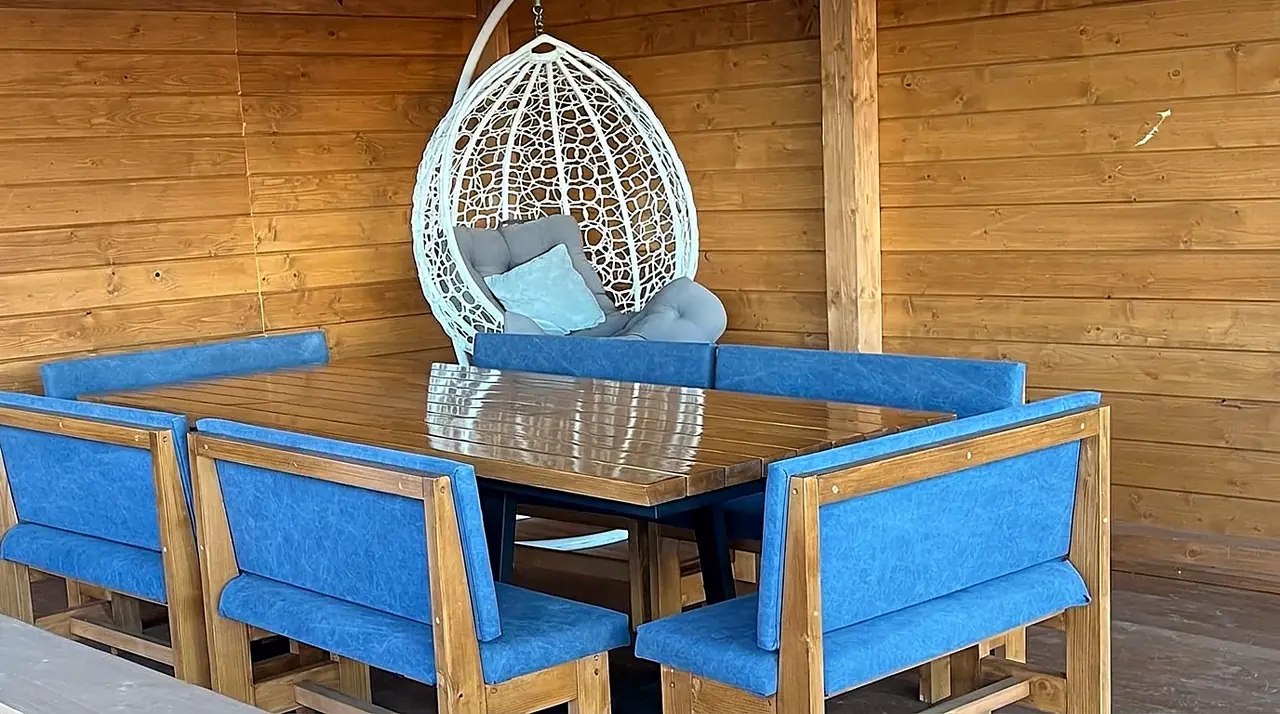
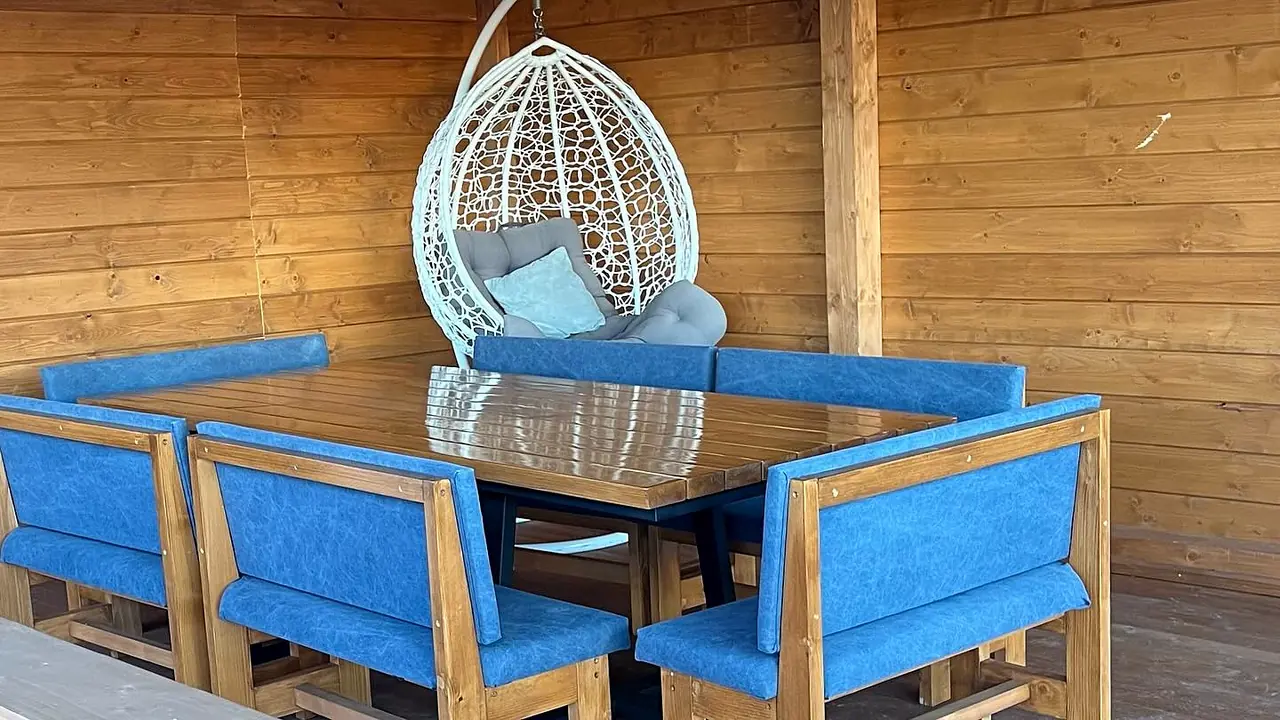
Hero and photos: only real property photos, gentle light correction

diff --git a/index.html b/index.html
@@ -24,8 +24,8 @@
 <link rel="preconnect" href="https://fonts.googleapis.com">
 <link rel="preconnect" href="https://fonts.gstatic.com" crossorigin>
 <link href="https://fonts.googleapis.com/css2?family=Jost:wght@300;400;500;600&family=Roboto:wght@300;400;500;700&display=swap" rel="stylesheet">
-<link rel="preload" as="image" href="img/hero-summer.webp" media="(min-width: 761px)" fetchpriority="high">
-<link rel="preload" as="image" href="img/hero-summer-m.webp" media="(max-width: 760px)" fetchpriority="high">
+<link rel="preload" as="image" href="img/hero-s1.webp" media="(min-width: 761px)" fetchpriority="high">
+<link rel="preload" as="image" href="img/hero-s1-m.webp" media="(max-width: 760px)" fetchpriority="high">
 <script>document.documentElement.classList.add('js');</script>
 <script type="application/ld+json">{"@context": "https://schema.org", "@type": "LodgingBusiness", "@id": "https://ananinalist-maker.github.io/proto-bayka-karpat/#bayka", "name": "Байка Карпат", "alternateName": ["Байка Карпат Ворохта", "Відпочинковий комплекс «Байка Карпат»"], "description": "Апартаменти й новий котедж на пагорбі над Ворохтою: кухні, басейн з підігрівом тільки для гостей, чан, сауна, тераса з видом на Говерлу. Бронювання напряму в господині.", "url": "https://ananinalist-maker.github.io/proto-bayka-karpat/", "telephone": "+380964751576", "sameAs": ["https://www.instagram.com/bayka_karpat_vorokhta", "https://www.tiktok.com/@baykakarpat"], "image": ["https://ananinalist-maker.github.io/proto-bayka-karpat/img/og.jpg", "https://ananinalist-maker.github.io/proto-bayka-karpat/img/ig-house-pool.webp", "https://ananinalist-maker.github.io/proto-bayka-karpat/img/cottage-log.webp", "https://ananinalist-maker.github.io/proto-bayka-karpat/img/pool-dusk.webp"], "address": {"@type": "PostalAddress", "streetAddress": "вулиця Михайла Грушевського, 88", "addressLocality": "Ворохта", "addressRegion": "Івано-Франківська область", "postalCode": "78595", "addressCountry": "UA"}, "geo": {"@type": "GeoCoordinates", "latitude": 48.2880136, "longitude": 24.5693873}, "hasMap": "https://www.google.com/maps/place/?q=place_id:ChIJ1SQV5WzhNkcR0ZgD4YV8-o4", "availableLanguage": ["uk"], "petsAllowed": true, "amenityFeature": [{"@type": "LocationFeatureSpecification", "name": "Басейн з підігрівом тільки для гостей", "value": true}, {"@type": "LocationFeatureSpecification", "name": "Чан", "value": true}, {"@type": "LocationFeatureSpecification", "name": "Сауна", "value": true}, {"@type": "LocationFeatureSpecification", "name": "Кухня в кожному житлі", "value": true}, {"@type": "LocationFeatureSpecification", "name": "Мангал і альтанка", "value": true}, {"@type": "LocationFeatureSpecification", "name": "Тераса з гамаками", "value": true}, {"@type": "LocationFeatureSpecification", "name": "Трансфер з вокзалу за домовленістю", "value": true}], "containsPlace": [{"@type": "Accommodation", "name": "Апартаменти на першому поверсі", "description": "Три окремі спальні, у кожній двоспальне ліжко. Своя кухня, щоб готувати як удома, і окрема ванна кімната."}, {"@type": "Accommodation", "name": "Апартаменти на другому поверсі", "description": "Чотири спальні, два санвузли, кухня і велика вітальня з панорамним вікном на гори. Окремий вхід і балкон з гойдалкою."}, {"@type": "Accommodation", "name": "Новий котедж 2024 року", "description": "Котедж із колоди, збудований у 2024 році. Три окремі спальні, кожна зі своїм санвузлом, повноцінна кухня і зал для відпочинку."}]}</script>
 <style>
@@ -716,10 +716,12 @@ textarea.inp{height:auto;min-height:92px;padding:13px 14px;line-height:1.45;resi
 .top{margin-inline:calc(50% - 50vw)}
 .hero{inset:0!important}
 .hero h1 .nw{white-space:nowrap}
-@media (max-width:760px){.hero h1 .nw{display:block}.hero h1 .l2{padding-left:0}.cover .wordmark{white-space:normal;flex-direction:column;font-size:clamp(40px,14vw,64px);line-height:1.05;letter-spacing:.08em}.cover .wordmark .nw{display:block;white-space:nowrap}}
+.hero h1 .nw{display:block}
+@media (max-width:760px){.hero h1 .l2{padding-left:0}.cover .wordmark{white-space:normal;flex-direction:column;font-size:clamp(40px,14vw,64px);line-height:1.05;letter-spacing:.08em}.cover .wordmark .nw{display:block;white-space:nowrap}}
 .hero__media{animation:none!important}
 .hero__scrim{background:linear-gradient(90deg,rgba(0,7,5,.8) 0%,rgba(0,7,5,.55) 36%,rgba(0,7,5,0) 66%),linear-gradient(0deg,rgba(0,7,5,.5) 0%,rgba(0,7,5,0) 30%),linear-gradient(180deg,rgba(0,7,5,.45) 0%,rgba(0,7,5,0) 22%)!important}
 .hero h1,.hero__sub{text-shadow:0 2px 16px rgba(0,8,5,.5)}
+.hero__sub{max-width:24em}
 .hero__cta .btn .i{width:20px;height:20px;margin-right:8px}
 /* сезони: нерухомі кадри, нове фото проявляється поверх попереднього (без відео й стиснення) */
 .hero__media .slide img{opacity:0;transition:opacity 1.6s cubic-bezier(.4,0,.2,1)}
@@ -849,10 +851,10 @@ textarea.inp{height:auto;min-height:92px;padding:13px 14px;line-height:1.45;resi
 <section class="top" id="top">
   <div class="hero" id="hero" aria-labelledby="hero-title">
     <div class="hero__media" id="heroMedia">
-      <picture class="slide is-on" data-season="Літо"><source media="(max-width: 760px)" srcset="img/hero-summer-m.webp" width="768" height="1376"><img src="img/hero-summer.webp" width="1600" height="900" alt="Садиба Байка Карпат: будинок, котедж і басейн над Ворохтою" fetchpriority="high" decoding="async"></picture>
-      <picture class="slide" data-season="Осінь"><source media="(max-width: 760px)" srcset="img/hero-autumn-m.webp" width="768" height="1376"><img src="img/hero-autumn.webp" width="1600" height="900" alt="" fetchpriority="low" decoding="async"></picture>
-      <picture class="slide" data-season="Зима"><source media="(max-width: 760px)" srcset="img/hero-winter-m.webp" width="768" height="1376"><img src="img/hero-winter.webp" width="1600" height="900" alt="" fetchpriority="low" decoding="async"></picture>
-      <picture class="slide" data-season="Весна"><source media="(max-width: 760px)" srcset="img/hero-spring-m.webp" width="768" height="1376"><img src="img/hero-spring.webp" width="1600" height="900" alt="" fetchpriority="low" decoding="async"></picture>
+      <picture class="slide is-on" data-season="Басейн увечері"><source media="(max-width: 760px)" srcset="img/hero-s1-m.webp" width="768" height="1376"><img src="img/hero-s1.webp" width="1600" height="900" alt="Басейн з підігрівом під гірляндою на заході, садиба Байка Карпат у Ворохті" fetchpriority="high" decoding="async"></picture>
+      <picture class="slide" data-season="Будинок у вогнях"><source media="(max-width: 760px)" srcset="img/hero-s2-m.webp" width="768" height="1376"><img src="img/hero-s2.webp" width="1600" height="900" alt="" fetchpriority="low" decoding="async"></picture>
+      <picture class="slide" data-season="Тераса на заході"><source media="(max-width: 760px)" srcset="img/hero-s3-m.webp" width="768" height="1376"><img src="img/hero-s3.webp" width="1600" height="900" alt="" fetchpriority="low" decoding="async"></picture>
+      <picture class="slide" data-season="Зима з вікна"><source media="(max-width: 760px)" srcset="img/hero-s4-m.webp" width="768" height="1376"><img src="img/hero-s4.webp" width="1600" height="900" alt="" fetchpriority="low" decoding="async"></picture>
     </div>
     <div class="hero__scrim" aria-hidden="true"></div>
     <div class="hero__in">
@@ -867,9 +869,9 @@ textarea.inp{height:auto;min-height:92px;padding:13px 14px;line-height:1.45;resi
       <a href="tel:+380964751576" aria-label="Подзвонити: +380 96 475 15 76"><svg class="i" aria-hidden="true"><use href="#i-phone"/></svg></a>
       <a href="viber://chat?number=%2B380964751576" aria-label="Написати у Viber"><svg class="i" aria-hidden="true"><use href="#i-viber"/></svg></a>
     </div>
-    <p class="hero__note" id="heroNote">Настроєві кадри зібрані для прототипу за&nbsp;фото садиби: садиба в&nbsp;чотири пори року. У&nbsp;робочій версії тут будуть ваші фото й&nbsp;відео.</p>
+    <p class="hero__note" id="heroNote">Фото садиби з&nbsp;Instagram і&nbsp;Google-картки.</p>
     <div class="hero__ctl">
-      <span class="season" id="season" aria-live="off">Літо</span>
+      <span class="season" id="season" aria-live="off">Басейн увечері</span>
       <button class="hero__pause" id="slidePause" type="button" aria-pressed="false" aria-label="Зупинити зміну сезонів" hidden><svg class="i i--fill i-pause" viewBox="0 0 14 14" aria-hidden="true"><use href="#i-pause"/></svg><svg class="i i--fill i-play" viewBox="0 0 14 14" aria-hidden="true"><use href="#i-play"/></svg></button>
     </div>
     <a class="qc" id="qc" href="#qb"><svg class="i" aria-hidden="true"><use href="#i-calendar"/></svg><span class="qc__t" id="qcT">Вільні дати · 2 дорослих · Обрати</span><span class="qc__go" aria-hidden="true"><svg class="i"><use href="#i-arrow"/></svg></span></a>
@@ -916,8 +918,8 @@ textarea.inp{height:auto;min-height:92px;padding:13px 14px;line-height:1.45;resi
         <p>Байка Карпат стоїть на&nbsp;високому пагорбі над Ворохтою, на&nbsp;вулиці Михайла Грушевського. Звідси видно хребти, старий віадук, а&nbsp;в&nbsp;ясну погоду й&nbsp;Говерлу. Довкола тихо, сусіди не&nbsp;за&nbsp;стіною.</p>
         <p>На&nbsp;ділянці двоє апартаментів у&nbsp;великому будинку і&nbsp;новий котедж, басейн з&nbsp;підігрівом, чан, сауна і&nbsp;тераса з&nbsp;гамаками. Гостей зустрічає господиня Наталія з&nbsp;чоловіком, і&nbsp;багато хто повертається сюди вдруге й&nbsp;уп’яте.</p>
       </div>
-      <figure class="ph about__a" data-rv><button class="zoom js-lb" type="button" data-cap="Будинок з апартаментами, басейн і дерев’яна тераса"><img width="768" height="1376" src="img/ig-house-pool.webp" alt="Будинок з апартаментами, басейн і дерев’яна тераса" loading="lazy" decoding="async"></button></figure>
-      <figure class="ph about__b" data-rv><button class="zoom js-lb" type="button" data-cap="Новий котедж із колоди"><img width="896" height="1200" src="img/cottage-log.webp" alt="Новий котедж із колоди" loading="lazy" decoding="async"></button></figure>
+      <figure class="ph about__a" data-rv><button class="zoom js-lb" type="button" data-cap="Будинок з апартаментами, басейн і дерев’яна тераса"><img width="1080" height="1920" src="img/ig-house-pool.webp" alt="Будинок з апартаментами, басейн і дерев’яна тераса" loading="lazy" decoding="async"></button></figure>
+      <figure class="ph about__b" data-rv><button class="zoom js-lb" type="button" data-cap="Новий котедж із колоди"><img width="1280" height="1707" src="img/cottage-log.webp" alt="Новий котедж із колоди" loading="lazy" decoding="async"></button></figure>
       <figure class="ph about__c" data-rv><button class="zoom js-lb" type="button" data-cap="Туман між горами над Ворохтою, вид з садиби"><img width="1280" height="1707" src="img/view-fog.webp" alt="Туман між горами над Ворохтою, вид з садиби" loading="lazy" decoding="async"></button></figure>
     </div>
   </div>
@@ -974,17 +976,17 @@ textarea.inp{height:auto;min-height:92px;padding:13px 14px;line-height:1.45;resi
       <div class="rcar" id="rcar" data-rv tabindex="-1">
 
 <article class="rcard">
-          <img width="896" height="1200" src="img/bed-wood.webp" alt="Апартаменти на першому поверсі" loading="lazy" decoding="async">
+          <img width="1280" height="1707" src="img/bed-wood.webp" alt="Апартаменти на першому поверсі" loading="lazy" decoding="async">
           <button class="rcard__hit" type="button" data-open="tpl-apt1" aria-label="Апартаменти, 1 поверх, детальніше"></button>
           <div class="rcard__bar"><div><h3>Апартаменти, 1 поверх</h3><p>три спальні і&nbsp;своя кухня</p></div><span class="rcard__go" aria-hidden="true"><svg class="i"><use href="#i-arrow"/></svg></span></div>
         </article>
 <article class="rcard">
-          <img width="896" height="1200" src="img/living.webp" alt="Апартаменти на другому поверсі" loading="lazy" decoding="async">
+          <img width="1280" height="1707" src="img/living.webp" alt="Апартаменти на другому поверсі" loading="lazy" decoding="async">
           <button class="rcard__hit" type="button" data-open="tpl-apt2" aria-label="Апартаменти, 2 поверх, детальніше"></button>
           <div class="rcard__bar"><div><h3>Апартаменти, 2 поверх</h3><p>для компанії до&nbsp;10 гостей</p></div><span class="rcard__go" aria-hidden="true"><svg class="i"><use href="#i-arrow"/></svg></span></div>
         </article>
 <article class="rcard">
-          <img width="896" height="1200" src="img/cottage-log.webp" alt="Новий котедж 2024 року" loading="lazy" decoding="async">
+          <img width="1280" height="1707" src="img/cottage-log.webp" alt="Новий котедж 2024 року" loading="lazy" decoding="async">
           <button class="rcard__hit" type="button" data-open="tpl-cottage" aria-label="Новий котедж, детальніше"></button>
           <div class="rcard__bar"><div><h3>Новий котедж</h3><p>три спальні, у&nbsp;кожній свій санвузол</p></div><span class="rcard__go" aria-hidden="true"><svg class="i"><use href="#i-arrow"/></svg></span></div>
         </article>
@@ -1169,10 +1171,10 @@ textarea.inp{height:auto;min-height:92px;padding:13px 14px;line-height:1.45;resi
       <aside class="mybook" aria-labelledby="my-t" data-rv>
         <h3 id="my-t">Моє бронювання</h3>
         <div class="mybook__room" aria-hidden="true">
-          <img data-r="any" width="768" height="1376" class="is-on" src="img/ig-house-pool.webp" alt="" loading="lazy" decoding="async">
-          <img data-r="apt1" width="896" height="1200" src="img/bed-wood.webp" alt="" loading="lazy" decoding="async">
-          <img data-r="apt2" width="896" height="1200" src="img/living.webp" alt="" loading="lazy" decoding="async">
-          <img data-r="cottage" width="896" height="1200" src="img/cottage-log.webp" alt="" loading="lazy" decoding="async">
+          <img data-r="any" width="1080" height="1920" class="is-on" src="img/ig-house-pool.webp" alt="" loading="lazy" decoding="async">
+          <img data-r="apt1" width="1280" height="1707" src="img/bed-wood.webp" alt="" loading="lazy" decoding="async">
+          <img data-r="apt2" width="1280" height="1707" src="img/living.webp" alt="" loading="lazy" decoding="async">
+          <img data-r="cottage" width="1280" height="1707" src="img/cottage-log.webp" alt="" loading="lazy" decoding="async">
         </div>
         <p class="mybook__name" id="myName">Що&nbsp;буде вільно</p>
         <dl>
@@ -1229,7 +1231,7 @@ textarea.inp{height:auto;min-height:92px;padding:13px 14px;line-height:1.45;resi
       </div>
     </div>
     <div class="foot__cr">
-      <p>Фото з&nbsp;Instagram і&nbsp;Google-картки садиби. Відео на&nbsp;першому екрані настроєве: зібране для прототипу за&nbsp;фото садиби (Google Flow). У&nbsp;робочій версії тут будуть ваші фото й&nbsp;відео.</p>
+      <p>Усі фото на&nbsp;сайті справжні: з&nbsp;Instagram і&nbsp;Google-картки садиби, лише з&nbsp;корекцією світла.</p>
       <p>Відстані й&nbsp;карта: OpenStreetMap. Цитати: відгуки гостей у&nbsp;Google.</p>
       <p>Прототип сайту для садиби «Байка Карпат», зібраний за&nbsp;відкритими даними, це&nbsp;не&nbsp;офіційний сайт. У&nbsp;робочій версії сайт налаштовується під пошук Google і&nbsp;під відповіді ChatGPT та&nbsp;інших AI-помічників, щоб садибу знаходили ті, хто шукає, де&nbsp;зупинитися у&nbsp;Ворохті.</p>
     </div>
@@ -1252,8 +1254,8 @@ textarea.inp{height:auto;min-height:92px;padding:13px 14px;line-height:1.45;resi
 <template id="tpl-apt1">
   <div class="rdlg__in">
     <div class="rdlg__pic">
-      <img width="896" height="1200" class="rdlg__main" src="img/bed-wood.webp" alt="Апартаменти на першому поверсі">
-      <div class="rdlg__thumbs"><button type="button" data-src="img/bed-wood.webp" aria-current="true" aria-label="Фото 1"><img width="896" height="1200" src="img/bed-wood.webp" alt="" loading="lazy"></button><button type="button" data-src="img/kitchen.webp" aria-label="Фото 2"><img width="896" height="1200" src="img/kitchen.webp" alt="" loading="lazy"></button><button type="button" data-src="img/bath.webp" aria-label="Фото 3"><img width="896" height="1200" src="img/bath.webp" alt="" loading="lazy"></button><button type="button" data-src="img/hall.webp" aria-label="Фото 4"><img width="896" height="1200" src="img/hall.webp" alt="" loading="lazy"></button><button type="button" data-src="img/house-day.webp" aria-label="Фото 5"><img width="896" height="1200" src="img/house-day.webp" alt="" loading="lazy"></button></div>
+      <img width="1280" height="1707" class="rdlg__main" src="img/bed-wood.webp" alt="Апартаменти на першому поверсі">
+      <div class="rdlg__thumbs"><button type="button" data-src="img/bed-wood.webp" aria-current="true" aria-label="Фото 1"><img width="1280" height="1707" src="img/bed-wood.webp" alt="" loading="lazy"></button><button type="button" data-src="img/kitchen.webp" aria-label="Фото 2"><img width="1280" height="1707" src="img/kitchen.webp" alt="" loading="lazy"></button><button type="button" data-src="img/bath.webp" aria-label="Фото 3"><img width="1280" height="1707" src="img/bath.webp" alt="" loading="lazy"></button><button type="button" data-src="img/hall.webp" aria-label="Фото 4"><img width="1280" height="1707" src="img/hall.webp" alt="" loading="lazy"></button><button type="button" data-src="img/house-day.webp" aria-label="Фото 5"><img width="960" height="1280" src="img/house-day.webp" alt="" loading="lazy"></button></div>
     </div>
     <div class="rdlg__body">
       <h3>Апартаменти на&nbsp;першому поверсі</h3>
@@ -1269,8 +1271,8 @@ textarea.inp{height:auto;min-height:92px;padding:13px 14px;line-height:1.45;resi
 </template><template id="tpl-apt2">
   <div class="rdlg__in">
     <div class="rdlg__pic">
-      <img width="896" height="1200" class="rdlg__main" src="img/living.webp" alt="Апартаменти на другому поверсі">
-      <div class="rdlg__thumbs"><button type="button" data-src="img/living.webp" aria-current="true" aria-label="Фото 1"><img width="896" height="1200" src="img/living.webp" alt="" loading="lazy"></button><button type="button" data-src="img/bed-grey.webp" aria-label="Фото 2"><img width="896" height="1200" src="img/bed-grey.webp" alt="" loading="lazy"></button><button type="button" data-src="img/ig-bed-twin.webp" aria-label="Фото 3"><img width="896" height="1200" src="img/ig-bed-twin.webp" alt="" loading="lazy"></button><button type="button" data-src="img/balcony-swing.webp" aria-label="Фото 4"><img width="1280" height="1707" src="img/balcony-swing.webp" alt="" loading="lazy"></button><button type="button" data-src="img/house-night.webp" aria-label="Фото 5"><img width="1200" height="896" src="img/house-night.webp" alt="" loading="lazy"></button></div>
+      <img width="1280" height="1707" class="rdlg__main" src="img/living.webp" alt="Апартаменти на другому поверсі">
+      <div class="rdlg__thumbs"><button type="button" data-src="img/living.webp" aria-current="true" aria-label="Фото 1"><img width="1280" height="1707" src="img/living.webp" alt="" loading="lazy"></button><button type="button" data-src="img/bed-grey.webp" aria-label="Фото 2"><img width="1125" height="1500" src="img/bed-grey.webp" alt="" loading="lazy"></button><button type="button" data-src="img/ig-bed-twin.webp" aria-label="Фото 3"><img width="1280" height="2276" src="img/ig-bed-twin.webp" alt="" loading="lazy"></button><button type="button" data-src="img/balcony-swing.webp" aria-label="Фото 4"><img width="1280" height="1707" src="img/balcony-swing.webp" alt="" loading="lazy"></button><button type="button" data-src="img/house-night.webp" aria-label="Фото 5"><img width="1280" height="960" src="img/house-night.webp" alt="" loading="lazy"></button></div>
     </div>
     <div class="rdlg__body">
       <h3>Апартаменти на&nbsp;другому поверсі</h3>
@@ -1286,8 +1288,8 @@ textarea.inp{height:auto;min-height:92px;padding:13px 14px;line-height:1.45;resi
 </template><template id="tpl-cottage">
   <div class="rdlg__in">
     <div class="rdlg__pic">
-      <img width="896" height="1200" class="rdlg__main" src="img/cottage-log.webp" alt="Новий котедж 2024 року">
-      <div class="rdlg__thumbs"><button type="button" data-src="img/cottage-log.webp" aria-current="true" aria-label="Фото 1"><img width="896" height="1200" src="img/cottage-log.webp" alt="" loading="lazy"></button><button type="button" data-src="img/ig-bed-log.webp" aria-label="Фото 2"><img width="896" height="1200" src="img/ig-bed-log.webp" alt="" loading="lazy"></button><button type="button" data-src="img/ig-living-log.webp" aria-label="Фото 3"><img width="768" height="1376" src="img/ig-living-log.webp" alt="" loading="lazy"></button><button type="button" data-src="img/ig-cocoon-night.webp" aria-label="Фото 4"><img width="896" height="1200" src="img/ig-cocoon-night.webp" alt="" loading="lazy"></button><button type="button" data-src="img/ig-balcony-blue.webp" aria-label="Фото 5"><img width="1280" height="714" src="img/ig-balcony-blue.webp" alt="" loading="lazy"></button></div>
+      <img width="1280" height="1707" class="rdlg__main" src="img/cottage-log.webp" alt="Новий котедж 2024 року">
+      <div class="rdlg__thumbs"><button type="button" data-src="img/cottage-log.webp" aria-current="true" aria-label="Фото 1"><img width="1280" height="1707" src="img/cottage-log.webp" alt="" loading="lazy"></button><button type="button" data-src="img/ig-bed-log.webp" aria-label="Фото 2"><img width="1280" height="1600" src="img/ig-bed-log.webp" alt="" loading="lazy"></button><button type="button" data-src="img/ig-living-log.webp" aria-label="Фото 3"><img width="720" height="1280" src="img/ig-living-log.webp" alt="" loading="lazy"></button><button type="button" data-src="img/ig-cocoon-night.webp" aria-label="Фото 4"><img width="1280" height="1600" src="img/ig-cocoon-night.webp" alt="" loading="lazy"></button><button type="button" data-src="img/ig-balcony-blue.webp" aria-label="Фото 5"><img width="1280" height="720" src="img/ig-balcony-blue.webp" alt="" loading="lazy"></button></div>
     </div>
     <div class="rdlg__body">
       <h3>Новий котедж 2024 року</h3>
